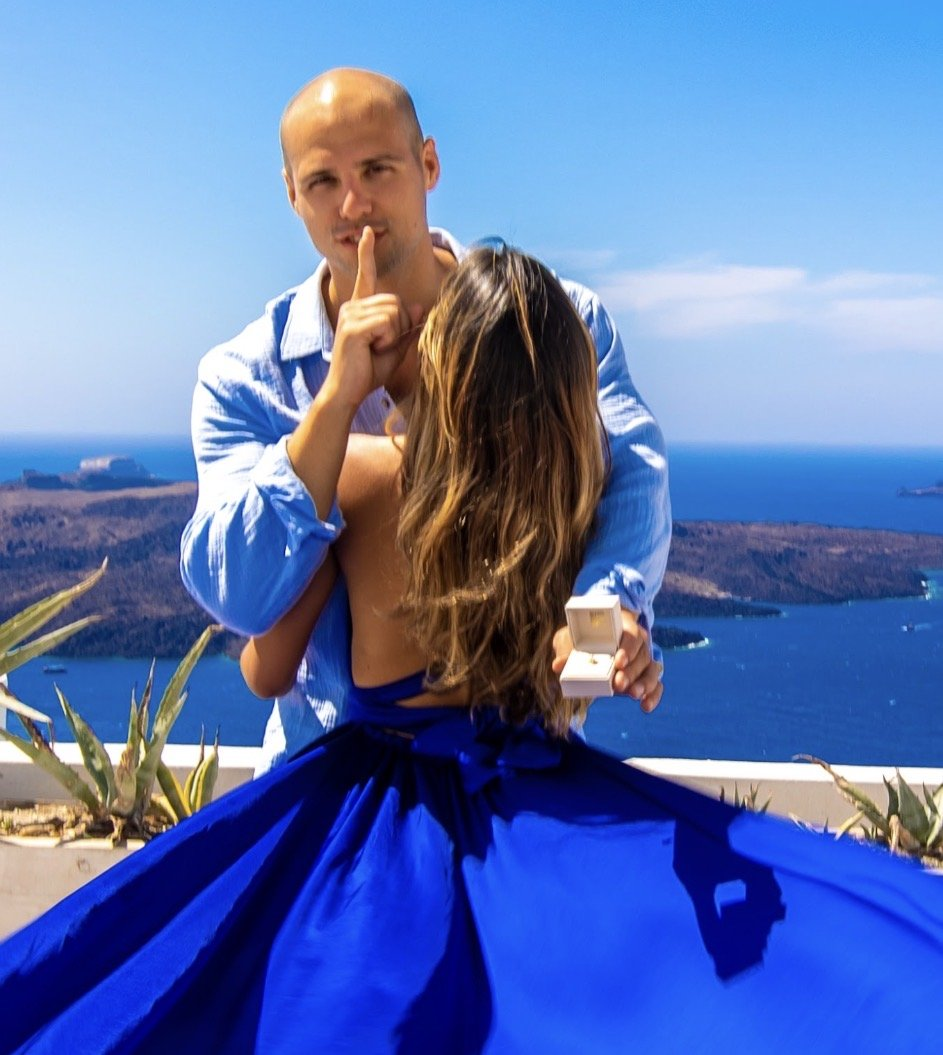
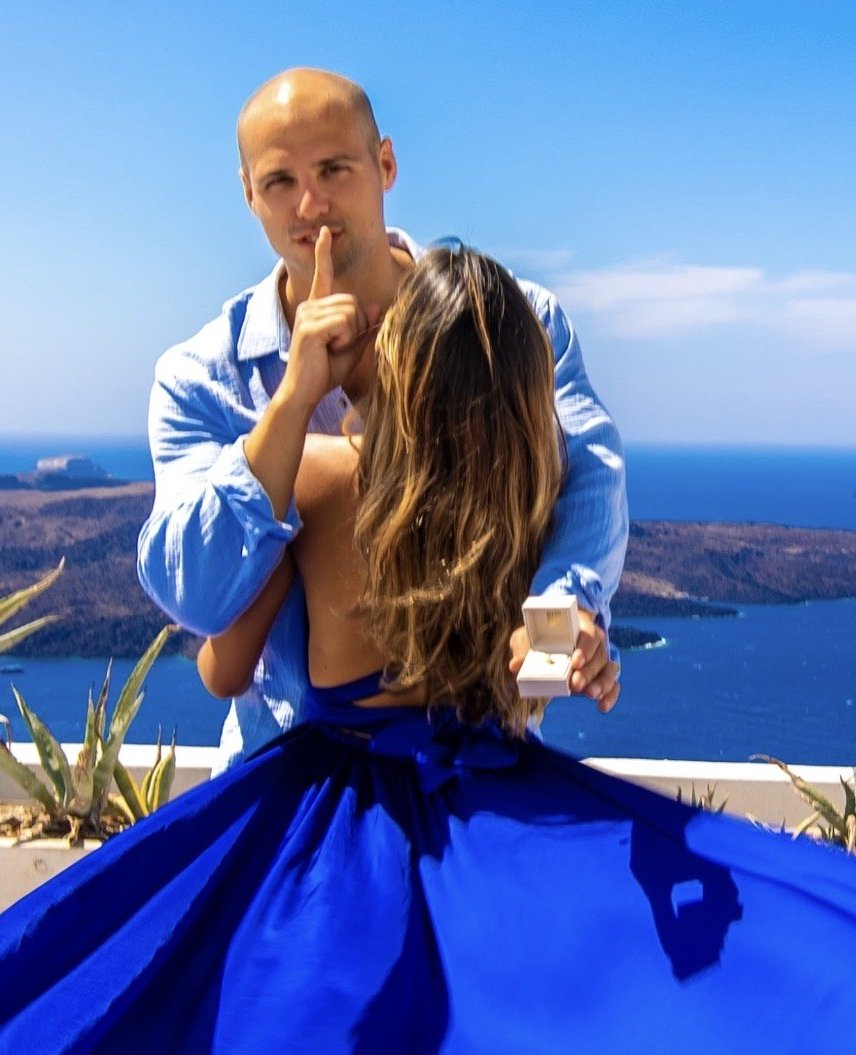
chore(couple): crop Chico's photo to match Alexita's aspect
To get matching portrait frame sizes, trim Chico's 943×1055 (0.894
aspect) horizontally by ~10 % (43 px each side) to 856×1055 (0.812
aspect), exactly matching Alexita's 862×1062 photo. Only background
sky was lost — Chico, Alexita's hair, ring box and the flowing dress
are intact. Updates siteConfig.couplePhotos.groom.width to 856.

diff --git a/src/site.config.ts b/src/site.config.ts
@@ -9,7 +9,7 @@ export const siteConfig = {
   // photo's aspect (no letterbox bars).
   couplePhotos: {
     bride: { src: '/branding/couple-alexita.jpg', width: 862, height: 1062 },
-    groom: { src: '/branding/couple-chico.jpg', width: 943, height: 1055 },
+    groom: { src: '/branding/couple-chico.jpg', width: 856, height: 1055 },
   },
   eventDate: '2027-03-06T17:00:00', // Reference date for general countdown
   theme: {